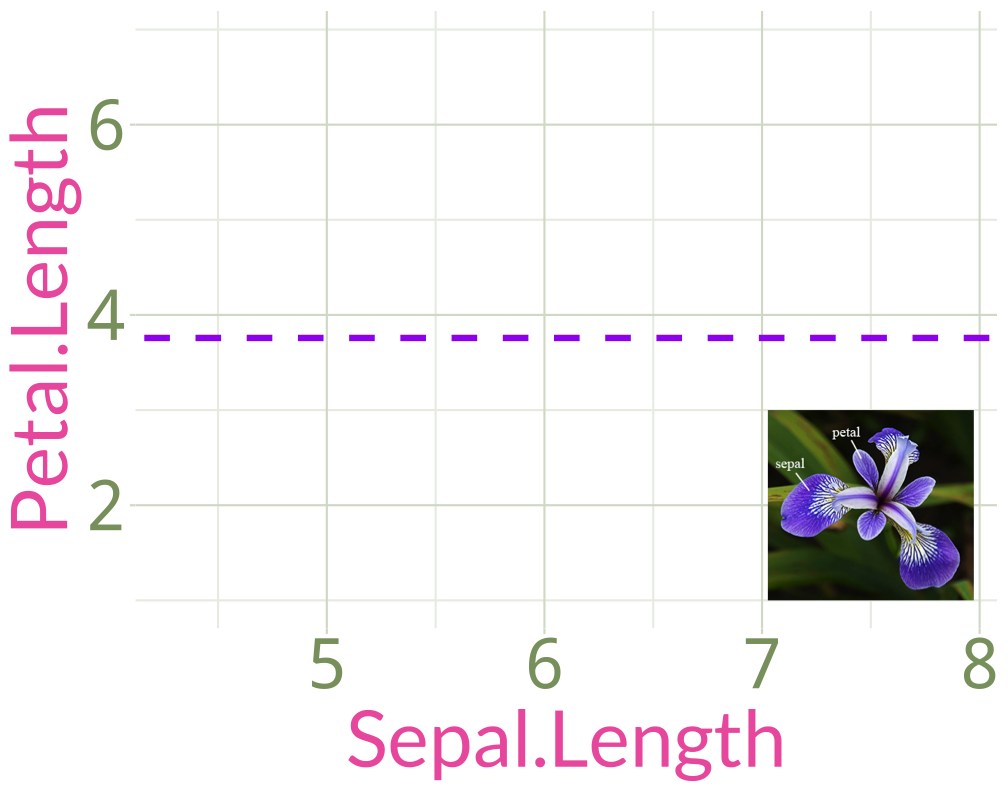
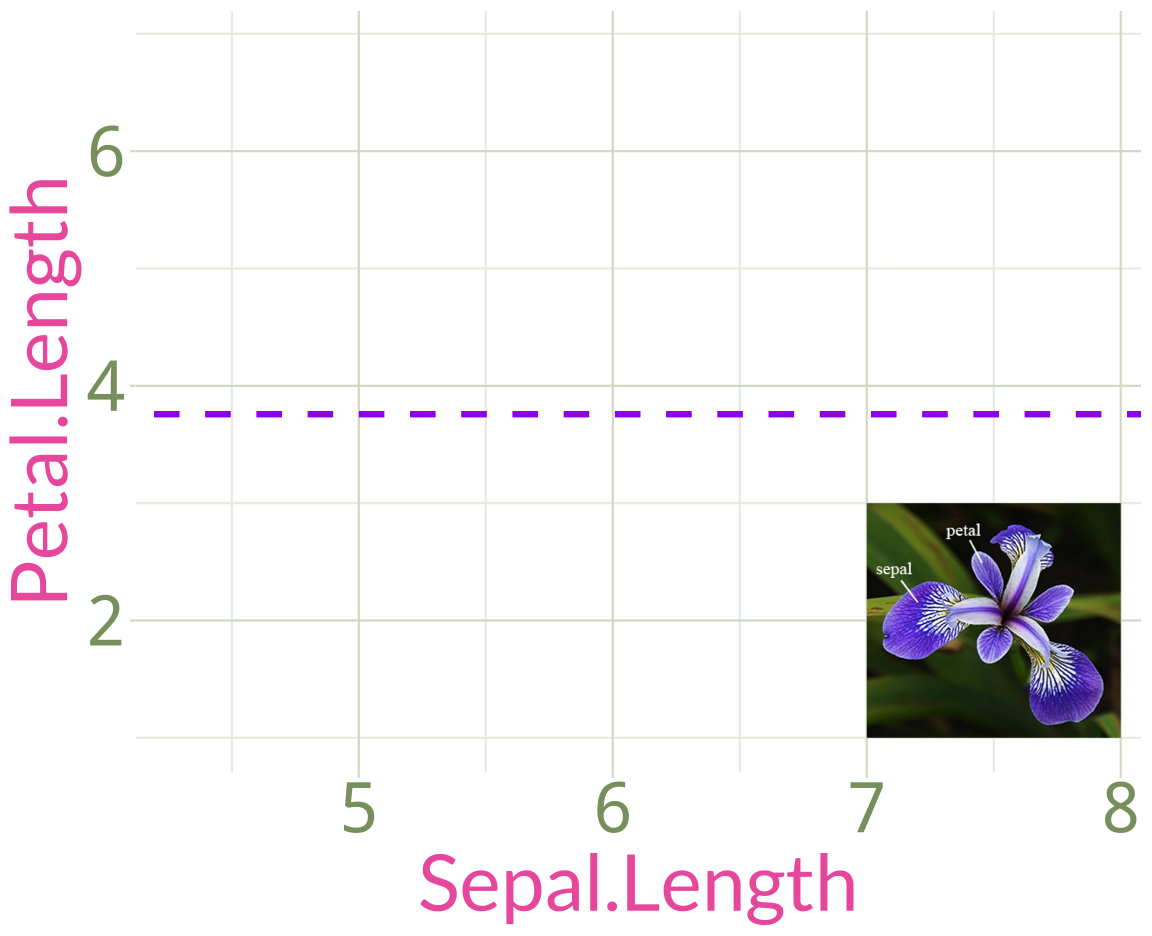
Add files via upload

Changed region(s): [[0.0, 0.0303, 1.0, 1.0], [0.2153, 0.7576, 0.246, 0.7879]]

diff --git a/talk_plot_flipbook.html b/talk_plot_flipbook.html
@@ -52,7 +52,7 @@ What's the relationship between Sepal Length and Petal Length?
 - *y-axis:* Petal Length.  
 
 
-&lt;img src="talk_plot_flipbook_files/figure-html/unnamed-chunk-2-1.png" width="504" style="display: block; margin: auto;" /&gt;
+&lt;img src="talk_plot_flipbook_files/figure-html/unnamed-chunk-2-1.png" width="576" style="display: block; margin: auto;" /&gt;
 
 
 ---
@@ -61,7 +61,7 @@ What's the relationship between Sepal Length and Petal Length?
 Petal length is not associated with sepal length.
 
 
-&lt;img src="talk_plot_flipbook_files/figure-html/unnamed-chunk-3-1.png" width="504" style="display: block; margin: auto;" /&gt;
+&lt;img src="talk_plot_flipbook_files/figure-html/unnamed-chunk-3-1.png" width="576" style="display: block; margin: auto;" /&gt;
 
 
 ---
@@ -70,7 +70,7 @@ Petal length is not associated with sepal length.
 Flower parts get bigger or smaller together. 
 
 
-&lt;img src="talk_plot_flipbook_files/figure-html/unnamed-chunk-4-1.png" width="504" style="display: block; margin: auto;" /&gt;
+&lt;img src="talk_plot_flipbook_files/figure-html/unnamed-chunk-4-1.png" width="576" style="display: block; margin: auto;" /&gt;
 
 ---
 
@@ -79,7 +79,7 @@ Flower parts get bigger or smaller together.
 Flower parts trade off. 
 
 
-&lt;img src="talk_plot_flipbook_files/figure-html/unnamed-chunk-5-1.png" width="504" style="display: block; margin: auto;" /&gt;
+&lt;img src="talk_plot_flipbook_files/figure-html/unnamed-chunk-5-1.png" width="576" style="display: block; margin: auto;" /&gt;
 
 ---
 
@@ -88,7 +88,7 @@ Flower parts trade off.
 Flower parts grow together
 
 
-&lt;img src="talk_plot_flipbook_files/figure-html/unnamed-chunk-6-1.png" width="504" style="display: block; margin: auto;" /&gt;
+&lt;img src="talk_plot_flipbook_files/figure-html/unnamed-chunk-6-1.png" width="576" style="display: block; margin: auto;" /&gt;
 
 
 ---
